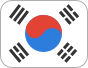
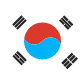
06.12.2014 Changes

diff --git a/index.html b/index.html
@@ -4,9 +4,12 @@
 <meta charset="utf-8">
 <title>Duolingo Incubator Languages</title>
 
+<link href='http://fonts.googleapis.com/css?family=Fira+Sans:400,700' rel='stylesheet' type='text/css'>
+
 <style type="text/css">
 
 body {
+	font-family: 'Fira Sans', sans-serif;
 	padding-top: 20px;
 	text-align: center;
 }
@@ -25,56 +28,62 @@ var sources = {};
 var languages_by_code = {};
 
 var languages = [["ar", "Arabic", "flag-ar.png"],
+								 ["zh-CN", "Chinese", "flag-zh-CN.png"],
 								 ["cs", "Czech", "flag-cs.png"],
-								 ["de", "German", "flag-de.png"],
-								 ["ga", "Irish", "flag-ga.png"],
-								 ["el", "Greek", "flag-el.png"],
-								 ["ko", "Korean", "flag-ko.png"],
+								 ["da", "Danish", "flag-da.png"],
 								 ["nl-NL", "Dutch", "flag-nl-NL.png"],
+								 ["en", "English", "flag-en.png"],
+								 ["fr", "French", "flag-fr.png"],
+								 ["de", "German", "flag-de.png"],
+								 ["el", "Greek", "flag-el.png"],
+								 ["hi", "Hindi", "flag-hi.png"],
+								 ["hu", "Hung…", "flag-hu.png"],
+								 ["id", "Indo…", "flag-id.png"],
+								 ["ga", "Irish", "flag-ga.png"],
+								 ["it", "Italian", "flag-it.png"],
+								 ["ja", "Japanese", "flag-ja.png"],
+								 ["ko", "Korean", "flag-ko.png"],
 								 ["pl", "Polish", "flag-pl.png"],
 								 ["pt", "Portugese", "flag-pt.png"],
 								 ["ro", "Romanian", "flag-ro.png"],
 								 ["ru", "Russian", "flag-ru.png"],
-								 ["tr", "Turkish", "flag-tr.png"],
-								 ["zh-CN", "Chinese", "flag-zh-CN.png"],
-								 ["en", "English", "flag-en.png"],
 								 ["es", "Spanish", "flag-es.png"],
-								 ["fr", "French", "flag-fr.png"],
-								 ["hi", "Hindi", "flag-hi.png"],
-								 ["hu", "Hungarian", "flag-hu.png"],
-								 ["id", "Indonesian", "flag-id.png"],
-								 ["it", "Italian", "flag-it.png"],
-								 ["vi", "Vietnamese", "flag-vi.png"],
-								 ["ja", "Japanese", "flag-ja.png"],];
+								 ["sv", "Swedish", "flag-sv.png"],
+								 ["th", "Thai", "flag-th.png"],
+								 ["tr", "Turkish", "flag-tr.png"],
+								 ["uk", "Ukrain…", "flag-uk.png"],
+								 ["vi", "Vietna…", "flag-vi.png"]];
 var phase_1 = [["hu", "en"],
-							 ["en", "ar"],
-							 ["nl-NL", "en"],
-							 ["ga", "en"],
-							 ["ru", "en"],
-							 ["en", "zh-CN"],
-							 ["de", "es"],
+							 ["sv", "en"],
+							 ["en", "th"],
 							 ["ro", "en"],
-							 ["en", "ko"],
+							 ["en", "uk"],
 							 ["pl", "en"],
-							 ["en", "vi"],
-							 ["es", "fr"],
-							 ["en", "hi"],
-							 ["en", "el"],
+							 ["da", "en"],
 							 ["tr", "en"],
-							 ["en", "id"],
-							 ["fr", "de"],
-							 ["en", "cs"]];
-var phase_2 = [["de", "ru"],
-							 ["fr", "es"],
+							 ["ga", "en"],
+							 ["en", "cs"],
+							 ["it", "es"],
+							 ["ru", "en"],
+							 ["nl-NL", "en"]];
+var phase_2 = [["en", "hi"],
+							 ["en", "el"],
+							 ["es", "fr"],
+							 ["es", "pt"],
+							 ["pt", "es"],
+							 ["en", "ro"],
 							 ["en", "ja"],
 							 ["en", "pl"],
+							 ["en", "zh-CN"],
+							 ["de", "ru"],
 							 ["en", "hu"],
-							 ["en", "tr"],
-							 ["pt", "es"],
-							 ["en", "nl-NL"],
-							 ["es", "pt"],
-							 ["en", "ro"],
-							 ["en", "ru"]];
+							 ["de", "es"],
+							 ["en", "ko"],
+							 ["en", "id"],
+							 ["fr", "de"],
+							 ["en", "ru"],
+							 ["en", "ar"],
+							 ["en", "vi"]];
 var phase_3 = [["de", "en"],
 							 ["es", "en"],
 							 ["en", "de"],
@@ -84,6 +93,9 @@ var phase_3 = [["de", "en"],
 							 ["it", "en"],
 							 ["en", "it"],
 							 ["pt", "en"],
+							 ["fr", "es"],
+							 ["en", "nl-NL"],
+							 ["en", "tr"],
 							 ["en", "fr"]];
 
 function drawBox(){
@@ -103,13 +115,13 @@ function drawBox(){
 		// Head
 		var baseline = 35;
 		ctx.fillStyle = "rgb(80,80,80)";
-		ctx.font = "bold 16px sans-serif";
-		ctx.fillText("Duolingo Incubator. Languages as of March 17, 2014.", 25, baseline);
+		ctx.font = "bold 16px 'Fira Sans', sans-serif";
+		ctx.fillText("Duolingo Incubator. Languages as of June 12, 2014.", 25, baseline);
 		
 		// To and From Labels
 		baseline = canvas_height - (padding - 14);
 		ctx.fillStyle = "rgb(80,80,80)";
-		ctx.font = "bold 12px sans-serif";
+		ctx.font = "bold 12px 'Fira Sans', sans-serif";
 		ctx.fillText("From:", 25, (padding - 8));
 		ctx.fillText("To:", 25, baseline);
 		
@@ -142,15 +154,15 @@ function drawBox(){
 		ctx.stroke();
 		
 		// Color for language names
-		ctx.fillStyle = "rgb(120,120,120)";
+		ctx.fillStyle = "rgb(100,100,100)";
 		ctx.lineWidth = 1;
 				
 		for ( var i = 0, l = languages.length; i < l; i++ ) {
       sources[languages[i][0]] = "flags/" + languages[i][2];
       languages_by_code[languages[i][0]] = i;
 			languages[i][3] = padding + ((col_width + gutter) * i) + (col_width/2);
-			languages[i].push(padding + (68 * col_width / 88));
-			ctx.font = "normal 9px sans-serif";
+			languages[i].push(padding + col_width);
+			ctx.font = "400 9px 'Fira Sans', sans-serif";
 			ctx.textAlign = "center";
 			ctx.fillText(languages[i][1], languages[i][3], (padding - 8));
 			ctx.fillText(languages[i][1], languages[i][3], canvas_height - (padding - 14));
@@ -158,8 +170,8 @@ function drawBox(){
 		
     loadImages(sources, function(images) {
 			for ( var i = 0, l = languages.length; i < l; i++ ) {
-      	ctx.drawImage(images[languages[i][0]], (padding + ((col_width + gutter) * i)), padding, col_width, (68 * col_width / 88));
-      	ctx.drawImage(images[languages[i][0]], (padding + ((col_width + gutter) * i)), (canvas_height - padding - (68 * col_width / 88)), col_width, (68 * col_width / 88));
+      	ctx.drawImage(images[languages[i][0]], (padding + ((col_width + gutter) * i)), padding, col_width, col_width);
+      	ctx.drawImage(images[languages[i][0]], (padding + ((col_width + gutter) * i)), (canvas_height - padding - col_width), col_width, col_width);
       }
 		});
 		
